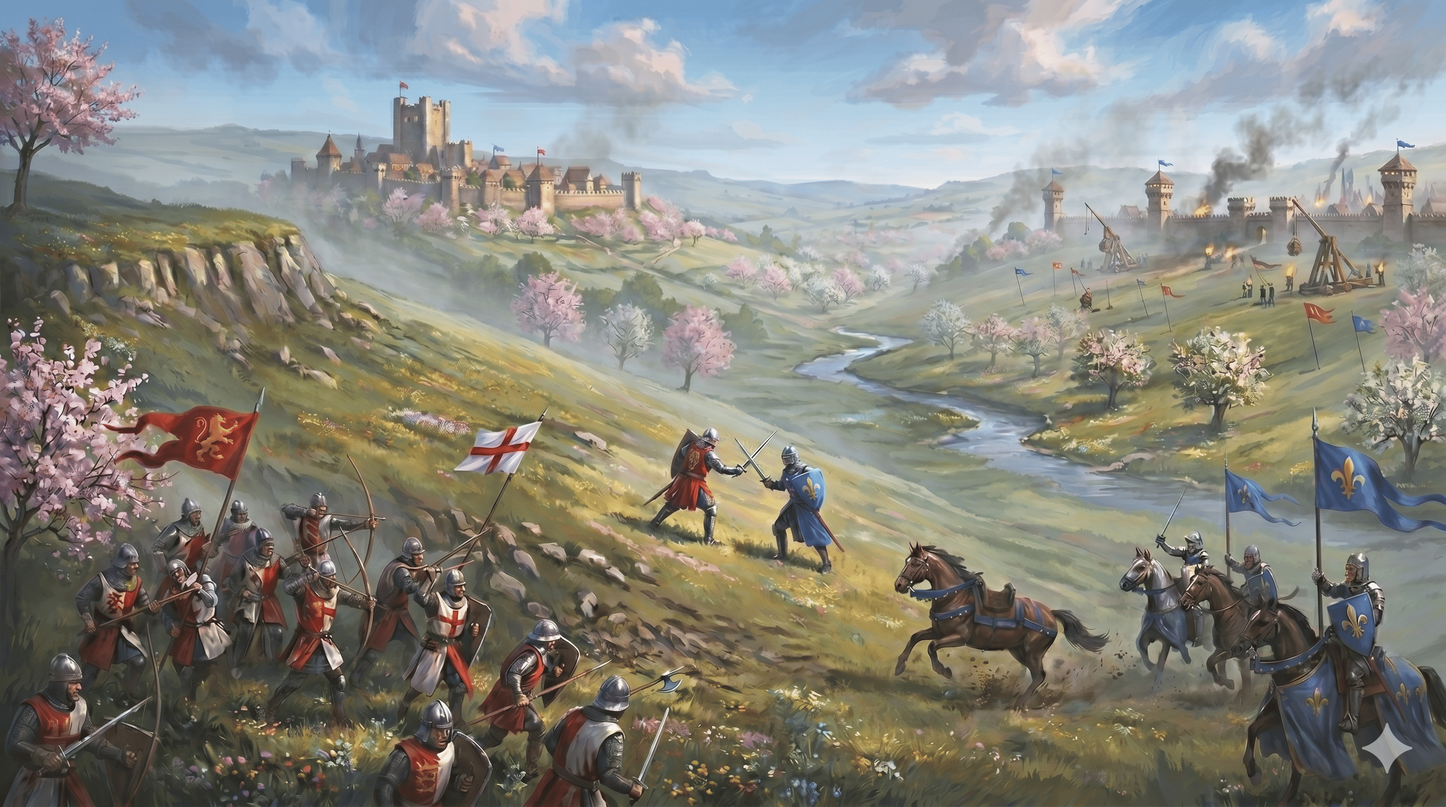
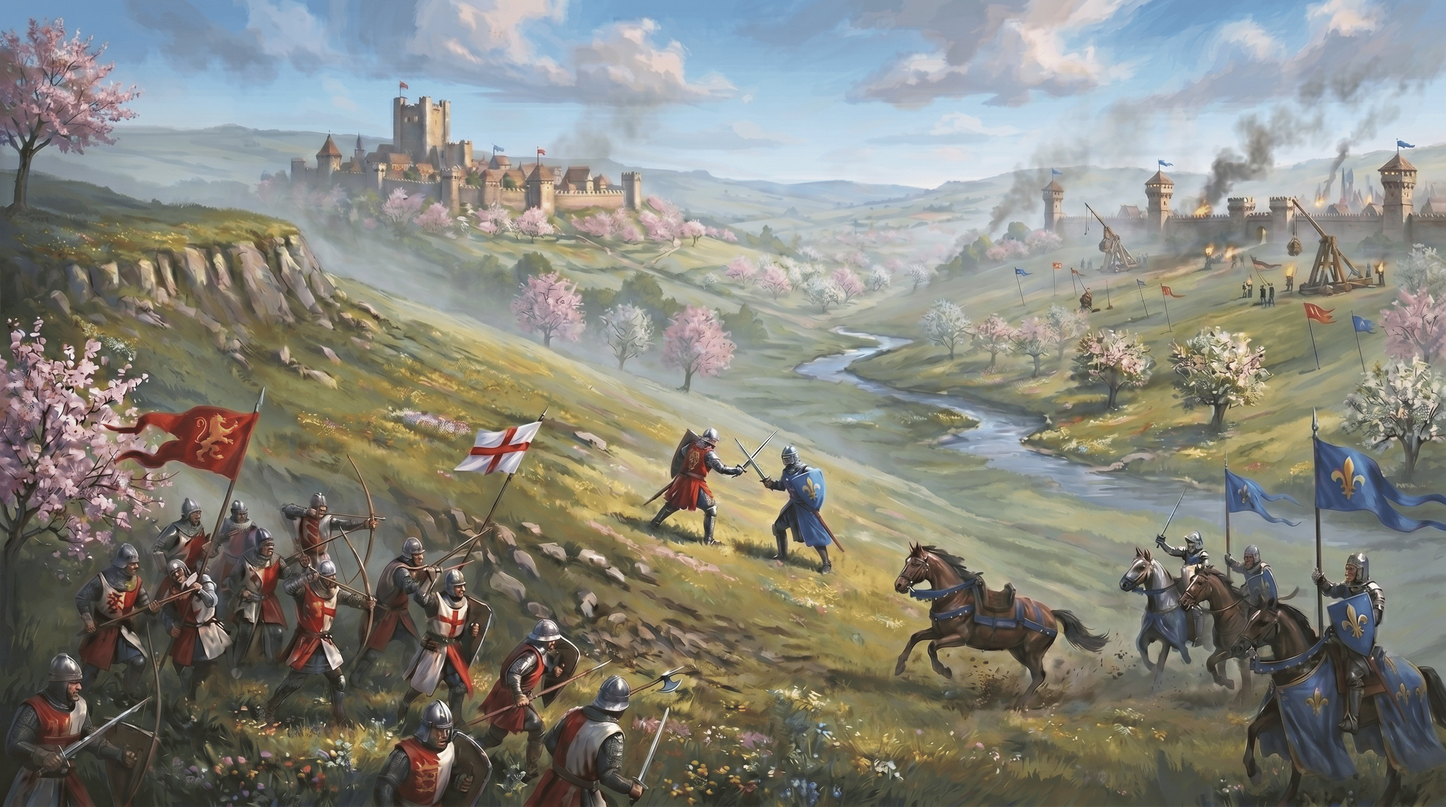
fix: risolto clipping tooltip e nomi team, ricaricato background

Changed region(s): [[0.9375, 0.9062, 1.0, 0.9688], [0.5938, 0.5, 0.625, 0.5312], [0.0, 0.0312, 0.0312, 0.0625]]

diff --git a/src/components/TournamentBracket.tsx b/src/components/TournamentBracket.tsx
@@ -207,7 +207,7 @@ function BracketSet({ set, isFirstRound, isLastRound, hideConnectors }: { set: S
         <div className="absolute right-[-24px] top-1/2 -translate-y-[1px] w-6 h-[2px] bg-gradient-to-r from-yellow-500/60 to-transparent transition-all duration-300 group-hover/set:from-yellow-400"></div>
       )}
 
-      <div className="glass rounded-xl border border-white/5 hover:border-yellow-500/40 transition-all duration-300 w-full overflow-hidden shadow-lg relative z-10">
+      <div className="glass rounded-xl border border-white/5 hover:border-yellow-500/40 transition-all duration-300 w-full shadow-lg relative z-10">
         <div className="flex flex-col">
         {set.slots.map((slot, idx) => {
           const isWinner = slot.standing?.stats.score.value !== null && 
@@ -219,8 +219,8 @@ function BracketSet({ set, isFirstRound, isLastRound, hideConnectors }: { set: S
             <div 
               key={idx} 
               className={clsx(
-                "flex items-center justify-between p-3 border-white/5 transition-colors",
-                idx === 0 ? "border-b" : "",
+                "flex items-center justify-between p-3 border-white/5 transition-colors relative",
+                idx === 0 ? "border-b rounded-t-xl" : "rounded-b-xl",
                 isWinner ? "bg-yellow-500/5" : "bg-transparent"
               )}
             >
@@ -232,8 +232,8 @@ function BracketSet({ set, isFirstRound, isLastRound, hideConnectors }: { set: S
                 
                 <div className="relative group/player min-w-0">
                   <span className={clsx(
-                    "text-xs font-black truncate block transition-all duration-300 group-hover/player:text-white cursor-help uppercase tracking-wider",
-                    isWinner ? "text-yellow-400" : "text-gray-400"
+                    "text-[13px] font-black truncate block transition-all duration-300 group-hover/player:text-white cursor-help uppercase tracking-wider",
+                    isWinner ? "text-yellow-400" : "text-gray-300"
                   )}>
                     {entrant?.name || 'TBD'}
                   </span>
